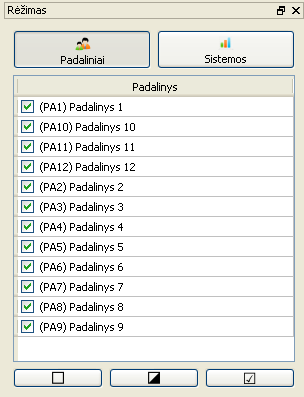
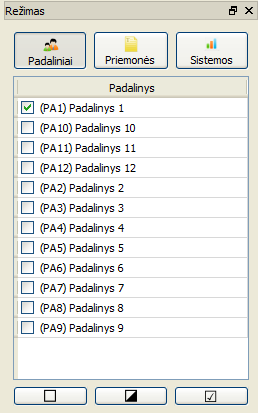
Papildyta paletes dokumentacija.

Changed region(s): [[0.0, 0.0, 1.0, 0.9975]]

diff --git a/doc/html/iface-palette.html b/doc/html/iface-palette.html
@@ -22,11 +22,50 @@
       <ul>
         <li>Pasirinkti rezultatų rodymo režimą (<b>Padaliniai</b> arba <b>Sistemos</b>)</li>
         <li>Filtruoti dominančius padalinius/sistemas</li>
+        <li>Pasirinkti dominančias paramos priemones</li>
       </ul>
-        <br/>
-	    <img src="../res/iface-palette.png"/>
-
-      <p><b>Pastaba:</b> netyčia paslėpus šią sąsają, ją galima atslėpti per meniu <b>Rodyti -> Režimas</b>.</p>
+      	<br/>
+	    <img src="../res/iface-palette.png"/>&nbsp;<img src="../res/iface-palette-measures.png"/>
+		<br/>
+		Pasirinkus priemonių rodymo rėžimą, galima nusistatyti, kurias priemones įtraukti į dominančių padalinių/sistemų
+		duomenų sąrašą. Išjungus rėžimą „Priemonės“, pritaikomi pakeitimai ir sugrąžinamas buvęs „Padaliniai“ arba „Sistemos“ rodymo rėžimas.
+		<br/>
+		<h2>Pasirinkimų redagavimo mygtukai</h2>
+		<table class="listed">
+	      <tr>
+	        <th>
+	          Elementas
+	        </th>
+	        <th>
+	          Aprašymas
+	        </th>
+	      </tr>
+	      <tr>
+	        <td class="bar-element">
+	          <img src="../res/iface-palette-uncheck.png"/>
+	        </td>
+	        <td>
+	          Atžymėti visus pasirinkimus
+	        </td>
+	      </tr>
+	      <tr>
+	        <td class="bar-element">
+	          <img src="../res/iface-palette-reverse.png"/>
+	        </td>
+	        <td>
+	          Visus pasirinkimus pakeisti priešingais
+	        </td>
+	      </tr>
+	      <tr>
+	        <td class="bar-element">
+	          <img src="../res/iface-palette-check.png"/>
+	        </td>
+	        <td>
+	          Pažymėti visus pasirinkimus
+	        </td>
+	      </tr>
+      	</table>
+      <p><b>Pastaba:</b> netyčia paslėpus šią sąsają, ją galima atslėpti per meniu <b>Rodyti -&gt; Režimas</b>.</p>
     </div>
   </body>
 </html>
